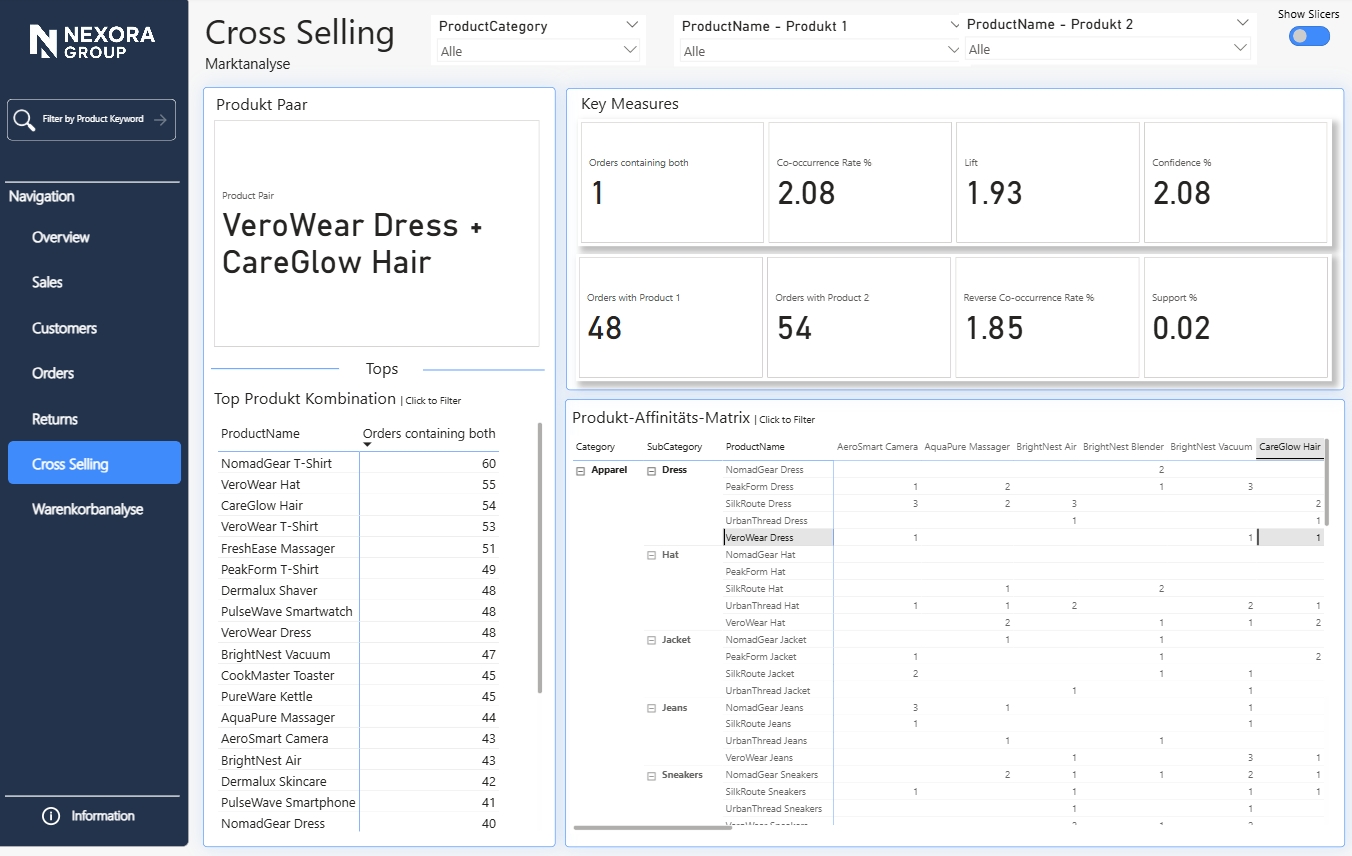
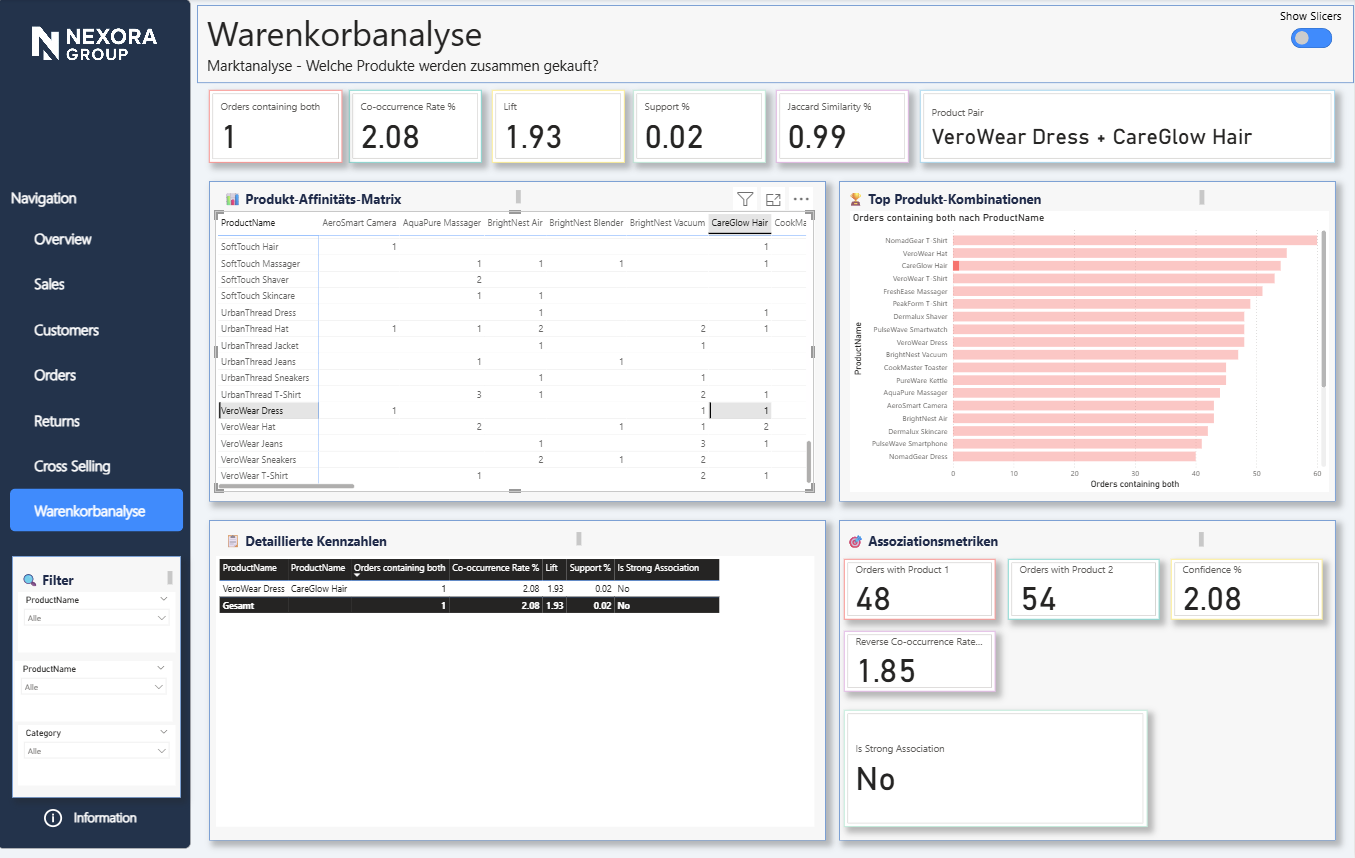
feat: Update example images for cross-selling and Warenkorbanalyse in assets

diff --git a/README.md b/README.md
@@ -12,7 +12,7 @@ Das ursprüngliche Repository ([archiviert in /legacy](legacy/)) enthielt aussch
 
 Das Repository wurde um eine vollständige **Warenkorbanalyse (Market Basket Analysis)** erweitert, die Cross-Selling-Potenziale identifiziert. Nutzer können interaktiv analysieren, welche Produkte häufig zusammen gekauft werden – ein wertvolles Werkzeug für Bundle-Strategien und Produktempfehlungen.
 
-![Warenkorbanalyse](assets/ExampleCrosselling.png)  
+![Warenkorbanalyse](assets/ExampleWarenkorbanalyse.png)  
 
 
 **📖 Schritt-für-Schritt-Tutorial**
@@ -38,12 +38,10 @@ Basierend auf der Warenkorbanalyse-Idee wurde von der KI eine detaillierte Imple
 
 Die KI hat den Plan dann auch selbstständig umgesetzt – mit einem erstaunlichen Ergebnis: **Die von der KI generierte Power BI Berichtsseite ist sogar besser als meine eigene, handgenerierte Version.** 
 
-Von GitHub Copilot generierte Berichtsseite auf Basis der von Google Gemini generierten Implementierungs-Checkliste:  
-
+* Von GitHub Copilot generierte Berichtsseite auf Basis der von Google Gemini generierten Implementierungs-Checkliste:
 ![ExampleWarenkorbanalyse](./assets/ExampleWarenkorbanalyse.png)
 
-Von mir generierte Berichtsseite:   
-
+* Von mir generierte Berichtsseite:
 ![ExampleCrosselling](./assets/ExampleCrosselling.png)
 
 
